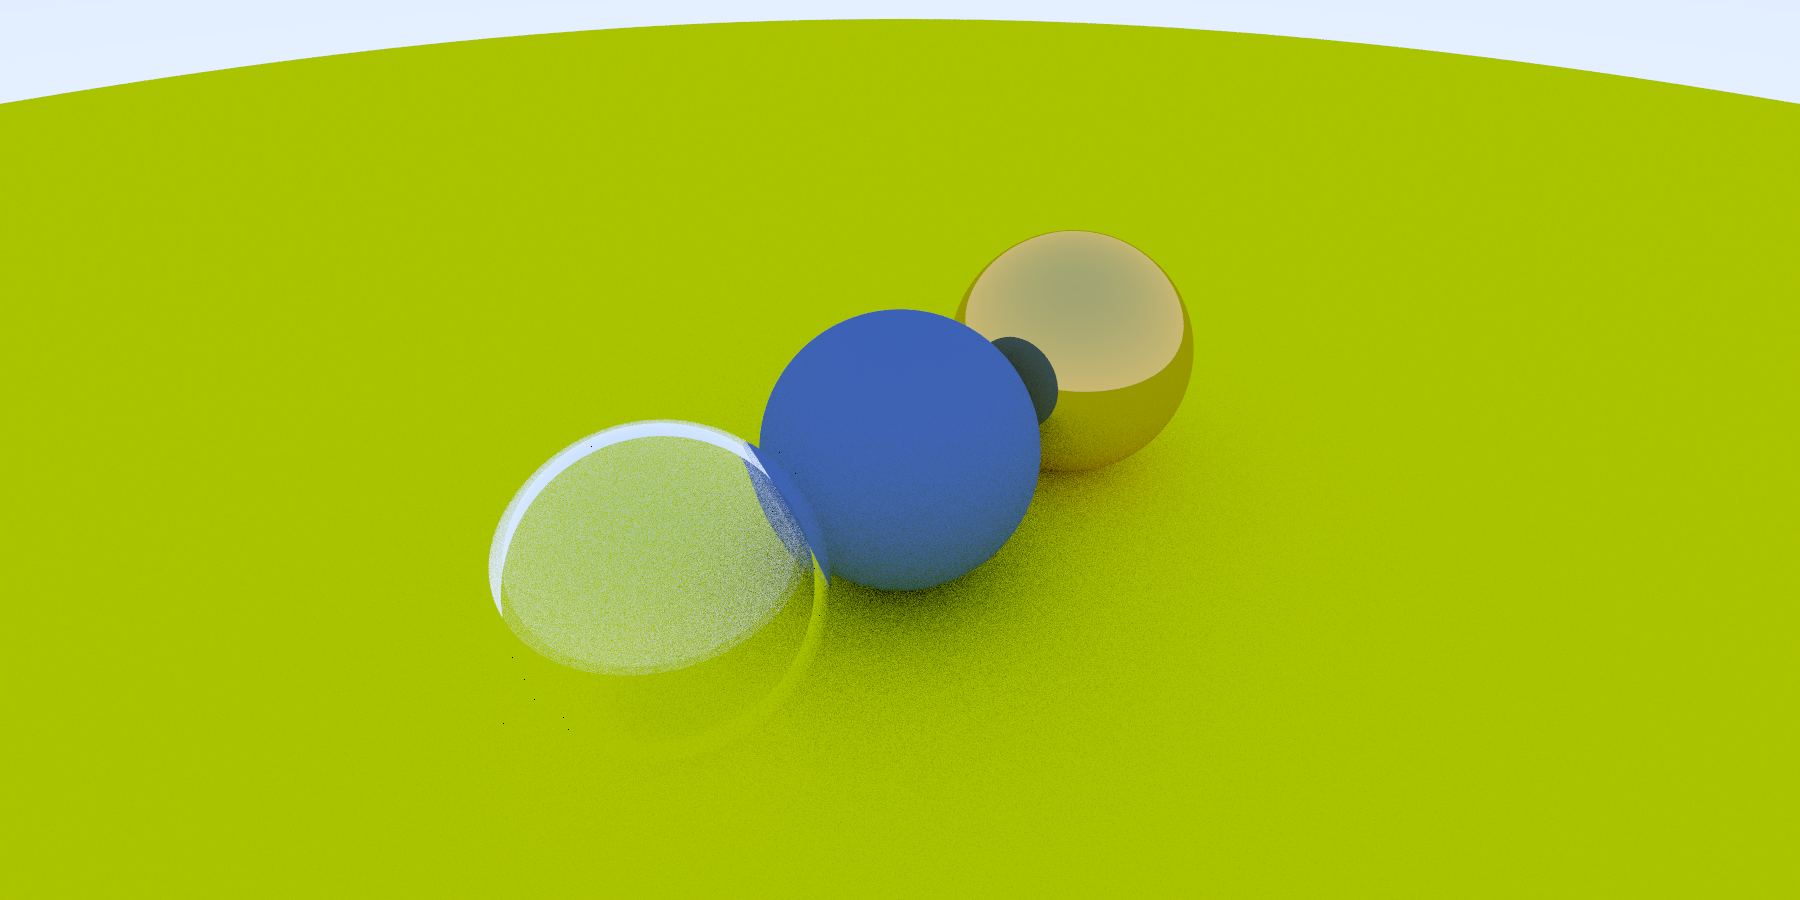
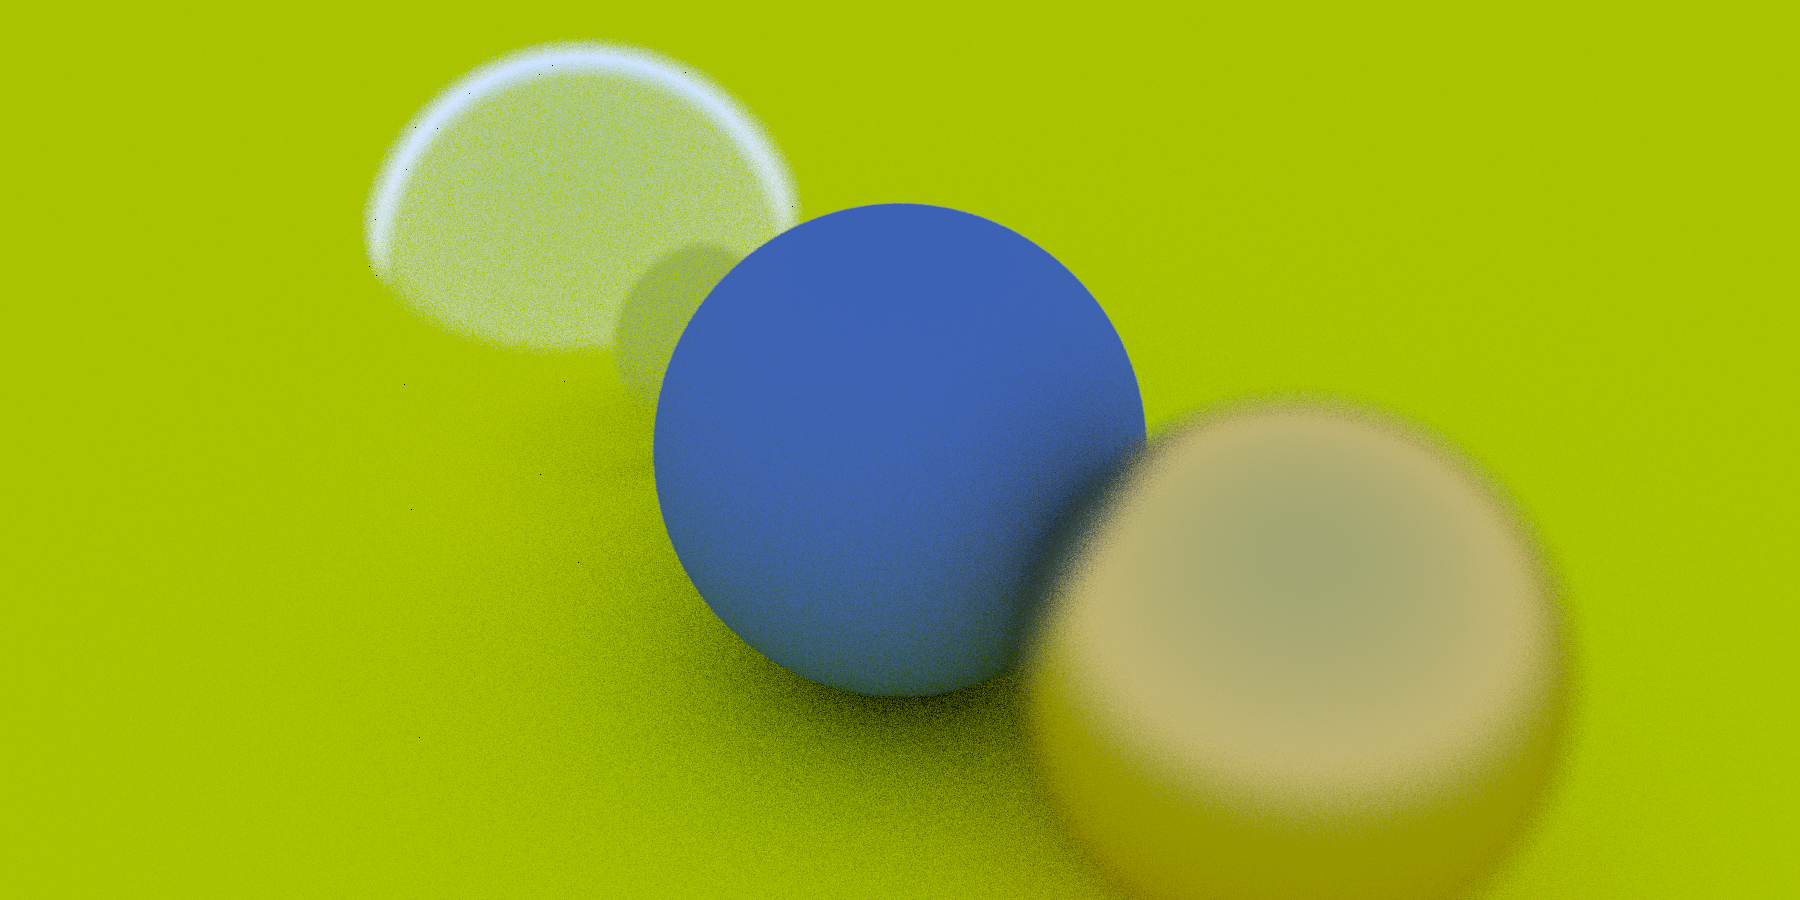
add defocus blur

diff --git a/tracer/tracer.cpp b/tracer/tracer.cpp
@@ -46,6 +46,19 @@ Vec3f randInUnitSphere()
 	return point;
 }
 
+Vec3f randInUnitDisk()
+{
+	Vec3f point{ 0.0f, 0.0f, 0.0f };
+
+	do 
+	{
+		point.x = randInRange(-1.0f, 1.0f);
+		point.y = randInRange(-1.0f, 1.0f);
+	} while (dot(point, point) >= 1.0f);
+
+	return point;
+}
+
 template<typename T>
 T lerp(float t, T a, T b)
 {
@@ -123,43 +136,56 @@ struct Camera
 	Vec3f m_lowerLeft;
 	Vec3f m_horizontal;
 	Vec3f m_vertical;
+
+	Vec3f baseUp; // v
+	Vec3f baseRight; // u 
+	Vec3f baseForward; // w
+
+	float m_lensRadius;
 };
 
-Camera createCamera(const Vec3f& origin, const Vec3f& viewForward, const Vec3f& viewUp, float vertFov, float aspect)
+Camera createCamera(const Vec3f& origin, const Vec3f& viewForward, const Vec3f& viewUp, float vertFov, float aspect, float aperture, float focusDist)
 {
-	Vec3f u, v, w;
-
 	float theta = vertFov * PI / 180.0f;
 	float halfHeight = tan(theta / 2.0f);
 	float halfWidth = aspect * halfHeight;
 
-	w = normalized(origin - viewForward);
-	u = normalized(cross(viewUp, w));
-	v = cross(w, u);
-
 	Camera camera;
+
+	camera.m_lensRadius = aperture / 2.0f;
+
+	camera.baseForward = normalized(origin - viewForward);
+	camera.baseRight = normalized(cross(viewUp, camera.baseForward));
+	camera.baseUp = cross(camera.baseForward, camera.baseRight);
+
 	camera.m_rayOrigin = origin;
-	camera.m_lowerLeft = origin - halfWidth * u - halfHeight * v - w;
-	camera.m_horizontal = 2.0f * halfWidth * u;
-	camera.m_vertical = 2.0f * halfHeight * v;
+	camera.m_lowerLeft = origin - halfWidth * focusDist * camera.baseRight - halfHeight * focusDist * camera.baseUp - focusDist * camera.baseForward;
+	camera.m_horizontal = 2.0f * halfWidth * focusDist * camera.baseRight;
+	camera.m_vertical = 2.0f * halfHeight * focusDist * camera.baseUp;
 
 	return camera;
+}
+
+Ray getRay(const Camera& camera, float u, float v)
+{
+	Vec3f rand2D = camera.m_lensRadius * randInUnitDisk();
+	Vec3f offset = camera.baseRight * rand2D.x + camera.baseUp * rand2D.y;
+
+	return Ray{ camera.m_rayOrigin + offset, camera.m_lowerLeft + u * camera.m_horizontal + v * camera.m_vertical - camera.m_rayOrigin - offset };
 }
 
 Ray getRayThroughPixel(const Camera& camera, int pixelX, int pixelY, int widthPixels, int heightPixels)
 {
 	float u = (float)pixelX / float(widthPixels);
 	float v = (float)pixelY / float(heightPixels);
-
-	return Ray{ camera.m_rayOrigin, camera.m_lowerLeft + u * camera.m_horizontal + v * camera.m_vertical - camera.m_rayOrigin};
+	return getRay(camera, u, v);
 }
 
 Ray getRayThroughPixelSubSampled(const Camera& camera, int pixelX, int pixelY, int widthPixels, int heightPixels)
 {
 	float u = ((float)pixelX + randDecimal()) / float(widthPixels);
 	float v = ((float)pixelY + randDecimal()) / float(heightPixels);
-
-	return Ray{ camera.m_rayOrigin, camera.m_lowerLeft + u * camera.m_horizontal + v * camera.m_vertical - camera.m_rayOrigin };
+	return getRay(camera, u, v);
 }
 
 struct Sphere
@@ -459,7 +485,10 @@ int main()
 	int components = 3;
 	Image image(width, height, components);
 
-	Camera camera = createCamera(Vec3f{ -2.0f, 2.0f, 1.0f }, Vec3f{ 0.0f, 0.0f, -1.0f }, Vec3f{ 0.0f, 1.0f, 0.0f }, 50.0f, (float)width / (float)height);
+	Vec3f origin{ 3.0f, 3.0f, 2.0f };
+	Vec3f forward{ 0.0f, 0.0f, -1.0f };
+	Vec3f up{ 0.0f, 1.0f, 0.0f };
+	Camera camera = createCamera(origin, forward, up, 20.0f, (float)width / (float)height, 0.5f, length(origin - forward));
 
 	const int pixelSubSamples = 16;
 
@@ -468,7 +497,7 @@ int main()
 	Material::ID blueDiffuse = world.setDefaultMaterial(createDiffuse(Vec3f{ 0.1f, 0.2f, 0.5f }));
 	Material::ID yellowDiffuse = world.addMaterial(createDiffuse(Vec3f{ 0.8f, 0.8f, 0.0f }));
 	Material::ID silver = world.addMaterial(createMetallic(Vec3f{ 0.8f, 0.8f, 0.8f }, 0.3f));
-	Material::ID gold = world.addMaterial(createMetallic(Vec3f{ 0.8f, 0.6f, 0.2f }, 0.0f));
+	Material::ID gold = world.addMaterial(createMetallic(Vec3f{ 0.8f, 0.6f, 0.2f }, 0.3f));
 	Material::ID glas = world.addMaterial(createDielectric(1.5f));
 
 	world.addSphere(Vec3f{ 0.0f, 0.0f, -1.0f }, 0.5f, blueDiffuse);
